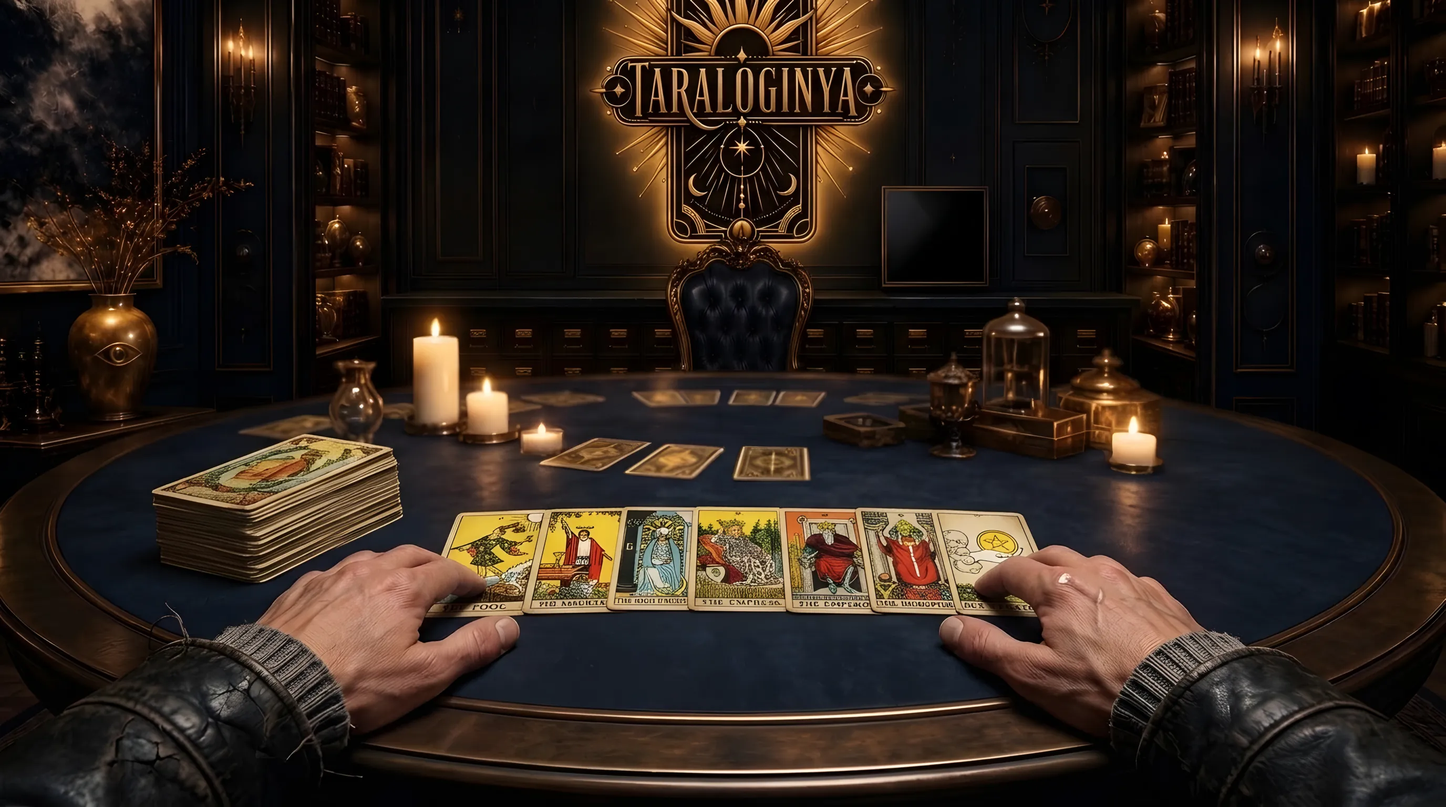
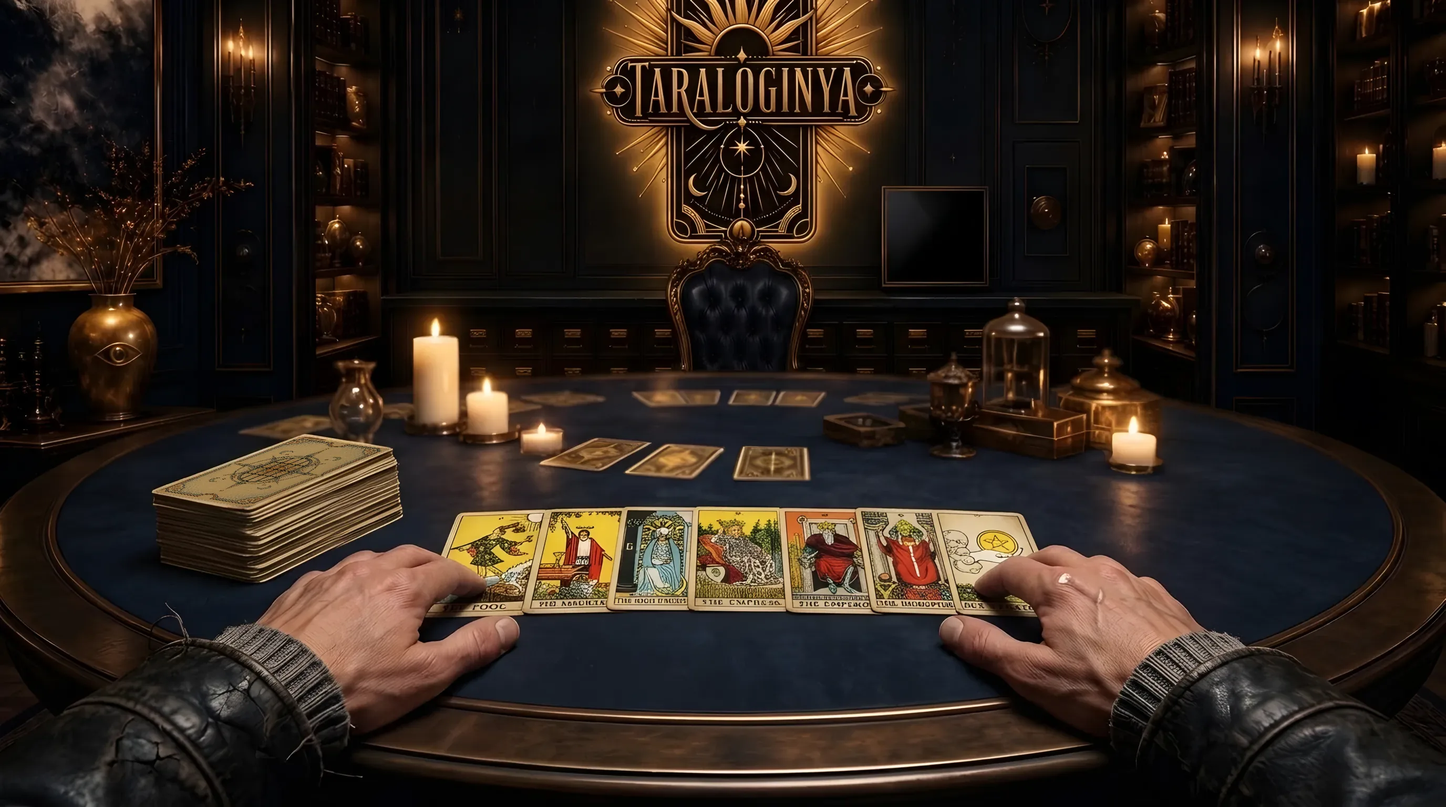
Питч, колода v3: огни бра и свечей на полках, стопка Таро слева — наша рубашка №13

Changed region(s): [[0.0938, 0.5312, 0.2812, 0.625]]

diff --git a/pitch/koloda/index.html b/pitch/koloda/index.html
@@ -66,20 +66,24 @@ const loader = new THREE.TextureLoader();
 const bgTex = loader.load('bg.webp'); bgTex.colorSpace = THREE.SRGBColorSpace;
 const bgH = 2 * BG_DIST * Math.tan(THREE.MathUtils.degToRad(VFOV / 2));
 // Живой фон: огоньки свечей дрожат и колышутся, вывеска мягко «дышит». Точки свечей найдены по кадру (u, v от верхнего левого угла).
-const FLAMES = [[0.301, 0.409, 0.0], [0.337, 0.481, 1.7], [0.375, 0.534, 3.1], [0.784, 0.530, 4.6]];
+// Четвёртое число — размер огонька: свечи на столе 1, настенные бра и свечи на полках дальше и мельче.
+const FLAMES = [[0.301, 0.409, 0.0, 1], [0.337, 0.481, 1.7, 1], [0.375, 0.534, 3.1, 1], [0.784, 0.530, 4.6, 1],
+  [0.160, 0.057, 0.8, 0.45], [0.167, 0.065, 2.4, 0.4], [0.173, 0.062, 5.2, 0.45],
+  [0.870, 0.062, 1.1, 0.45], [0.884, 0.054, 3.8, 0.45],
+  [0.945, 0.187, 2.9, 0.5], [0.807, 0.273, 0.4, 0.45]];
 // Сивилла 1.0 (утверждена 19.10, SV-R10b) — в мониторе кабинета; экран в кадре фона: u 0.6134–0.6806, v 0.2344–0.349.
 const svTex = loader.load('sivilla-screen.webp'); svTex.colorSpace = THREE.SRGBColorSpace;
 const bgMat = new THREE.ShaderMaterial({
   uniforms: { map: { value: bgTex }, sv: { value: svTex }, svRect: { value: new THREE.Vector4(0.6134, 1 - 0.349, 0.6806, 1 - 0.2344) }, time: { value: 0 }, aspect: { value: IMG_ASPECT },
-    flames: { value: FLAMES.map(f => new THREE.Vector3(f[0], 1 - f[1], f[2])) } },
+    flames: { value: FLAMES.map(f => new THREE.Vector4(f[0], 1 - f[1], f[2], f[3])) } },
   vertexShader: 'varying vec2 vUv; void main() { vUv = uv; gl_Position = projectionMatrix * modelViewMatrix * vec4(position, 1.0); }',
   fragmentShader: `
-    uniform sampler2D map, sv; uniform vec4 svRect; uniform float time, aspect; uniform vec3 flames[4]; varying vec2 vUv;
+    uniform sampler2D map, sv; uniform vec4 svRect; uniform float time, aspect; uniform vec4 flames[11]; varying vec2 vUv;
     float flick(float p) { return sin(time * 7.3 + p) * .5 + sin(time * 13.1 + p * 2.) * .3 + sin(time * 23.7 + p * 3.) * .2; }
     void main() {
       vec2 uv = vUv; vec3 glow = vec3(0.);
-      for (int i = 0; i < 4; i++) {
-        vec2 d = (vUv - flames[i].xy) * vec2(aspect, 1.);
+      for (int i = 0; i < 11; i++) {
+        vec2 d = (vUv - flames[i].xy) * vec2(aspect, 1.) / flames[i].w;
         float near = exp(-dot(d, d) / 0.00018);
         float f = flick(flames[i].z);
         uv.x += near * sin(time * 9. + flames[i].z + vUv.y * 420.) * 0.0011 * (0.6 + 0.4 * f);
